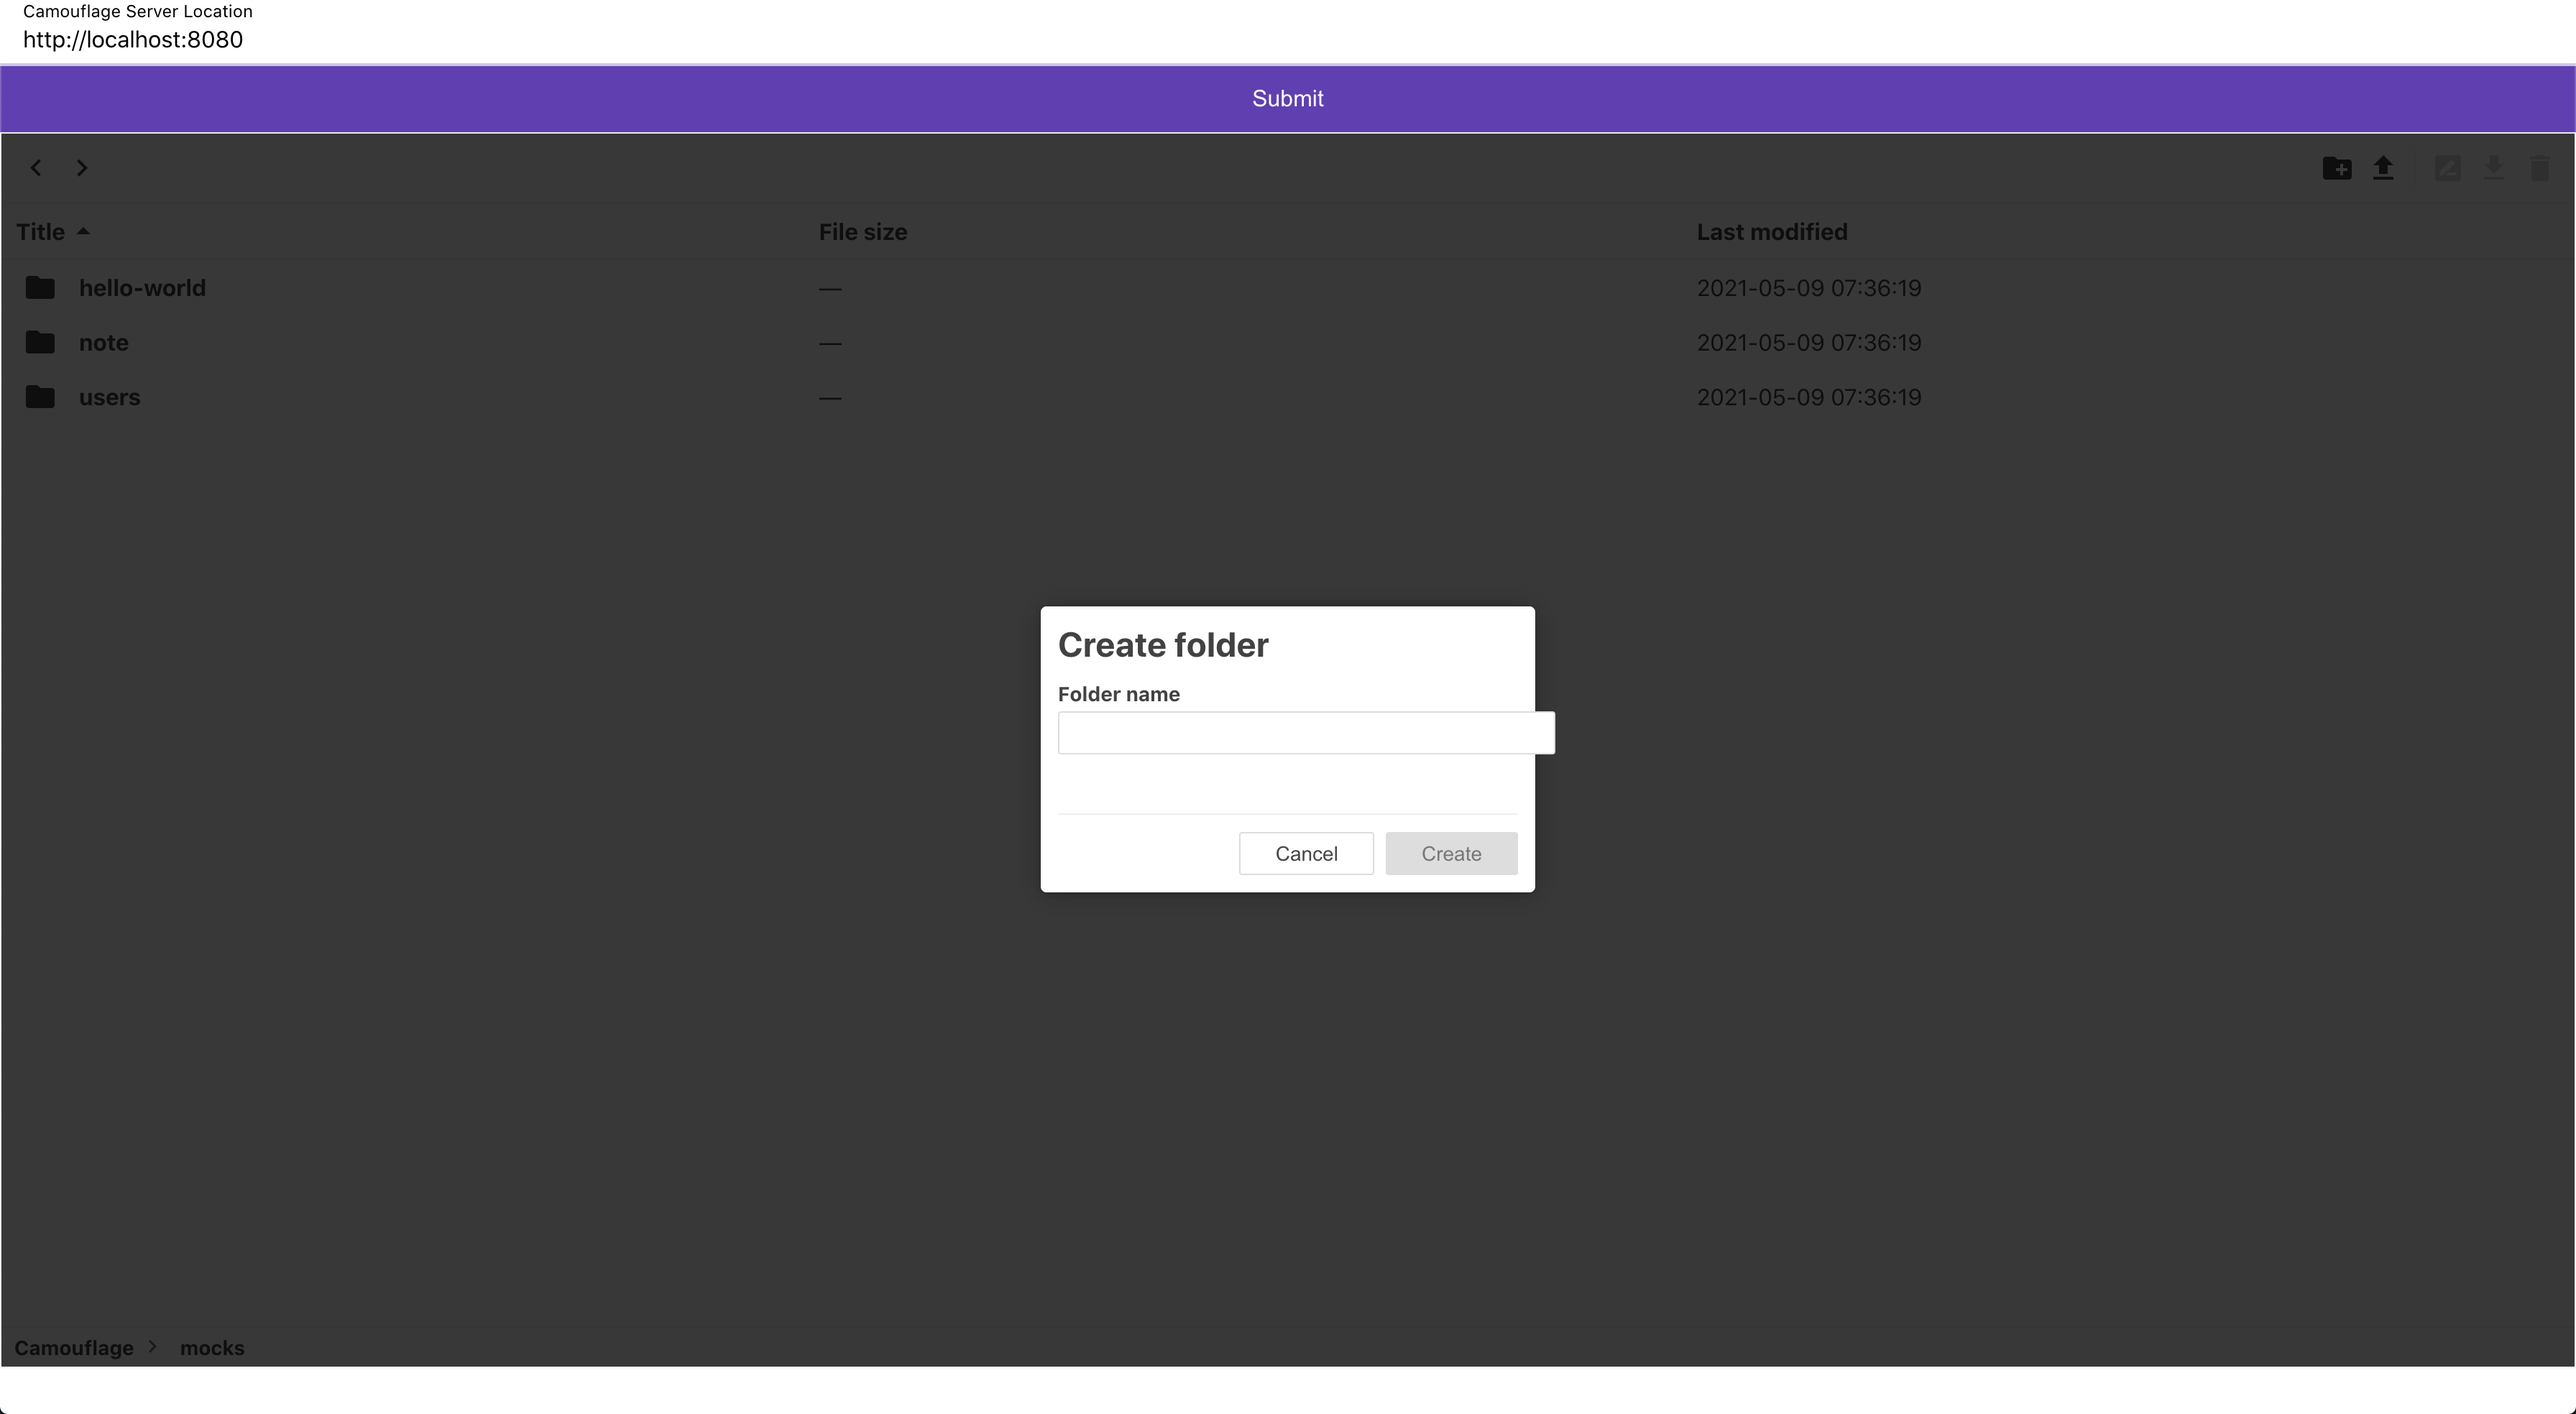
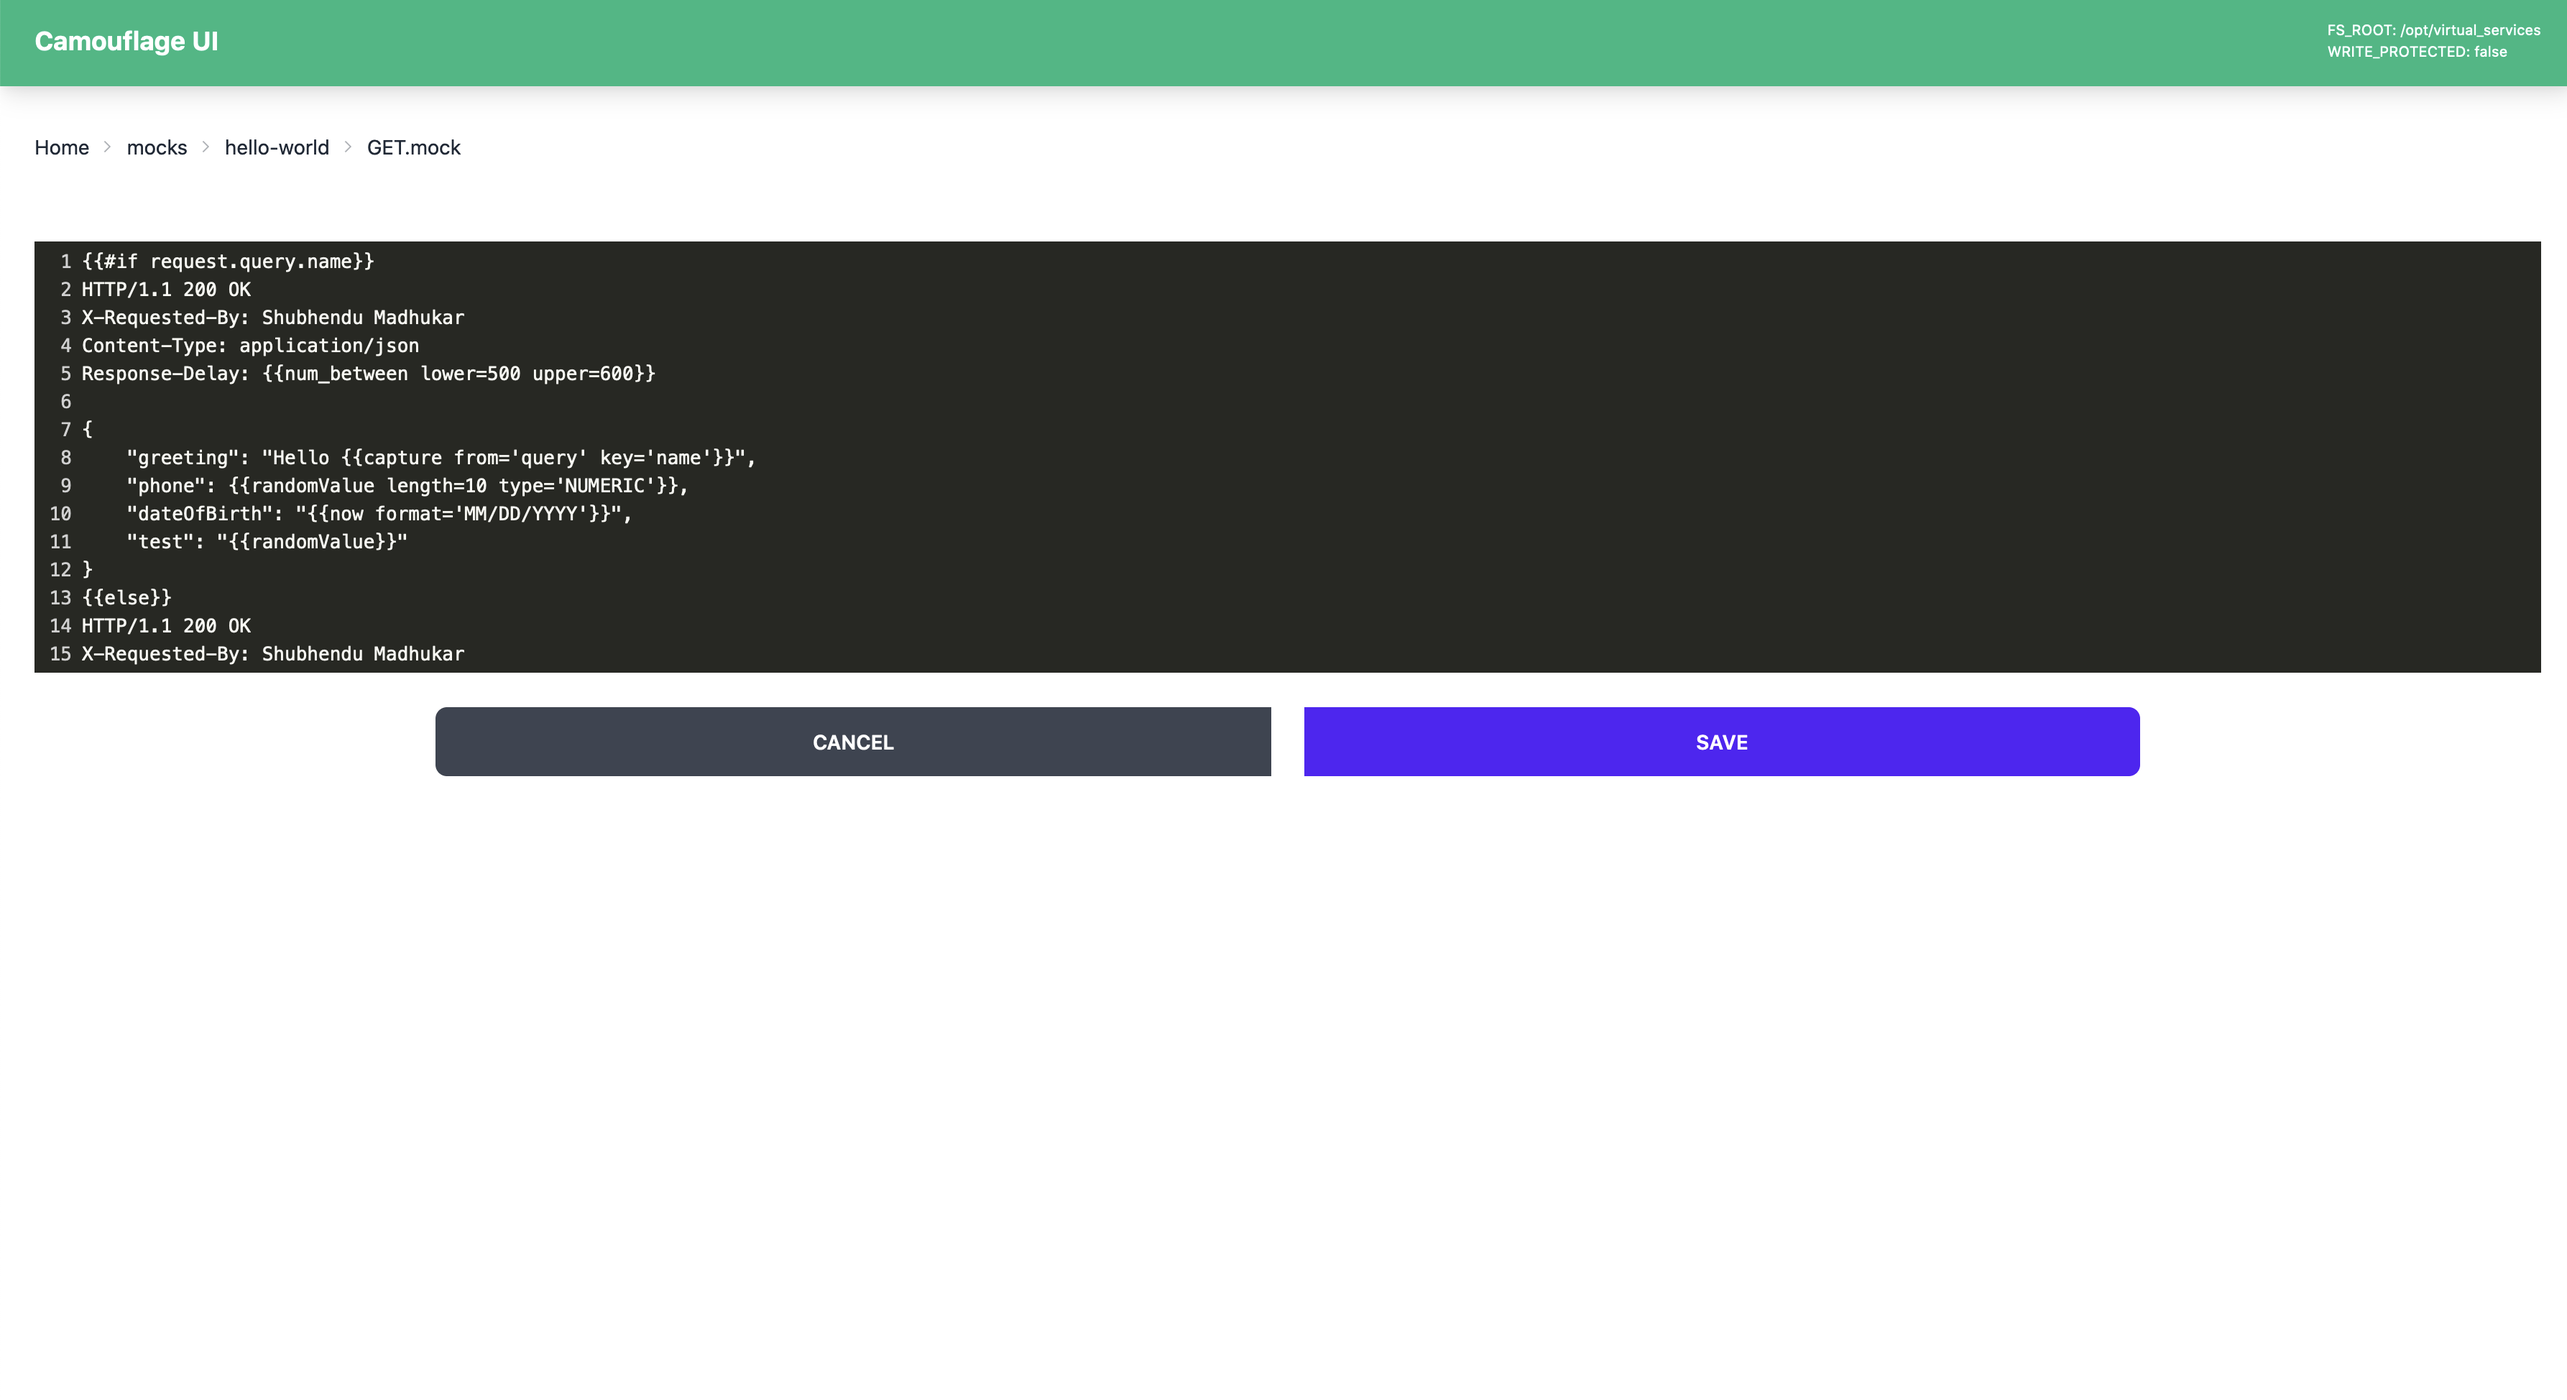
docs: Update docs for UI Details

diff --git a/docs/using-with-kubernetes.md b/docs/using-with-kubernetes.md
@@ -8,22 +8,24 @@ Camouflage can be also be used with the Kubernetes using the \*.yaml files avail
 
 ## What is included?
 
-Kubernetes deployments include 3 yaml files:
+Kubernetes deployments include 5 yaml files:
 
 - **camouflage-depl.yaml** - Defines Camouflage pod, along with an init pod to setup Camouflage. *Change the desired number of replicas and allocated CPU/Memory here*
+- **camouflage-ui-depl.yaml** - Defines Camouflage UI pod. No further configuration needed.
 - **camouflage-pvc.yaml** - Allows Camouflage to persist mocks/protofiles data even if a pod is killed, also helps share same data accross pods. *Change the assigned storage volume and storage class here*
-- **camouflage-service.yaml** - Defines a loadbalancer service to access UI and mocks. *Change port mappings here.*
+- **camouflage-service.yaml** - Defines a loadbalancer service to access mocks. *Change port mappings here.*
+- **camouflage-ui-service.yaml** - Defines a loadbalancer service to access UI. *Change port mappings here.*
 
 ## How it works?
-- To deploy and scale, download all three files and store locally or on your dedicated server.
-- Navigate to the directory containing the three files and run the command: `kubectl apply -f .`.
+- To deploy and scale, download all five files and store locally or on your dedicated server.
+- Navigate to the directory containing the five files and run the command: `kubectl apply -f .`
 - This starts n number of pods as specified in replica, alongwith init pods.
 - This sets up Loadbalancer Service.
 - Finally this sets up a PVC, which is to be populated by the init pods. If the mounted volume is empty, init pods will run `camouflage init`, so that you don't have to. Any changes/deletion/creation of mocks will be persisted, further init pods created during scaling/deleting/restarting will not change the existing data.
 
 ## Port Mapping
 
-You can map ports in `camouflage-svc.yaml` to access available protocols and endpoints. Default ports/mappings are:
+You can map ports in `camouflage-service.yaml` to access available protocols and endpoints. Default ports/mappings are:
 
 - 8080 - For HTTP
 - 8443 - For HTTPS
@@ -32,7 +34,9 @@ You can map ports in `camouflage-svc.yaml` to access available protocols and end
 - 4312 - For gRPC
 - 5555 - Exposes a /metrics endpoint for prometheus monitoring
 
+Default UI port is 3001, which can be changed in `camouflage-ui-service.yaml`
+
 Each of these ports can be mapped to a host port of your choice
 
 ## Using Camouflage on K8s
-All mocks and endpoints can be access via the loadbalancer service. As well as any changes to mocks, can be made using Camouflage UI available at the root path accessed by using http port. `http://${host}:${httpPort}/`.
+All mocks and endpoints can be access via the loadbalancer service. As well as any changes to mocks, can be made using Camouflage UI available via the additional UI loadbalancer service.

diff --git a/docs/camouflage-ui.md b/docs/camouflage-ui.md
@@ -1,20 +1,20 @@
 # Camouflage UI
 
-Camouflage also provides a file explorer UI allowing you to work with your mocks. UI is powered by [OpusCapita/filemanager](https://github.com/OpusCapita/filemanager){target=\_blank}, which provides abilities to perform following actions on the available mocks:
+Camouflage also provides a file explorer UI allowing you to work with your mocks. Camouflage uses a standalone UI that can be downloaded as an npm package from [camouflage-filemanager](http://npmjs.com/package/camouflage-filemanager){target=\_blank}. It currently allows following actions:
 
-- Upload mock files
-- Download mock files
-- Rename a mock folder to change stubbed API endpoint
-- Update cert and key
-- Download logs
-- Download config yaml
+- Create mock files/folders' structure
+- View and edit mock files
+- Delete mock files/folders
 
-!!!caution
+New features will soon be added to the UI, such as:
 
-        To access Camouflage UI, one of these protocols, i.e. http, https should be enabled.
+- Downloading files.
+- Uploading files.
+- Uploading folders as zip/tgz.
+- Renaming files/folders.
+- Integrated terminal.
 
 Screenshots:
 ![CamouflageUI-1](CamouflageUI-1.png)
 ![CamouflageUI-2](CamouflageUI-2.png)
 ![CamouflageUI-3](CamouflageUI-3.png)
-![CamouflageUI-4](CamouflageUI-4.png)

diff --git a/docs/using-with-docker.md b/docs/using-with-docker.md
@@ -36,6 +36,7 @@ To make any changes to mocks you can modify files on your host. Or you can use C
 The fastest way to get started using Docker would be to use the `docker-compose.yml` file available in Camouflage Github repo. Download the files `docker-compose.yml`, `camouflage_dashboard.json` and `prometheus.yml` to your local environment. Run the command `docker-compose up -d` to start following entities:
 
 - Camouflage
+- Camouflage UI
 - Prometheus
 - Grafana
 
